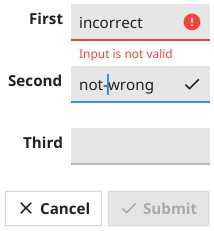
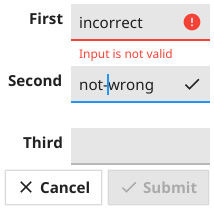
fix text alignment of label to match Entry

diff --git a/widget/form.go b/widget/form.go
@@ -47,10 +47,6 @@ type Form struct {
 	submitButton *Button
 }
 
-func (f *Form) createLabel(text string) *Label {
-	return NewLabelWithStyle(text, fyne.TextAlignTrailing, fyne.TextStyle{Bold: true})
-}
-
 // Append adds a new row to the form, using the text as a label next to the specified Widget
 func (f *Form) Append(text string, widget fyne.CanvasObject) {
 	item := &FormItem{Text: text, Widget: widget}
@@ -84,6 +80,14 @@ func (f *Form) Refresh() {
 	f.updateLabels()
 	f.BaseWidget.Refresh()
 	canvas.Refresh(f.super()) // refresh ourselves for BG color - the above updates the content
+}
+
+func (f *Form) createLabel(text string) *tallerLabel {
+	l := &tallerLabel{}
+	l.Alignment = fyne.TextAlignTrailing
+	l.Text = text
+	l.TextStyle = fyne.TextStyle{Bold: true}
+	return l
 }
 
 func (f *Form) updateButtons() {
@@ -134,8 +138,13 @@ func (f *Form) checkValidation(err error) {
 
 func (f *Form) setUpHints(item *FormItem) fyne.CanvasObject {
 	_, ok := item.Widget.(fyne.Validatable)
-	if item.HintText == "" && !ok {
-		return item.Widget
+	if item.HintText == "" {
+		if !ok {
+			return item.Widget
+		}
+		if e, ok := item.Widget.(*Entry); ok && e.Validator == nil { // we don't have validation
+			return item.Widget
+		}
 	}
 
 	text := canvas.NewText(item.HintText, theme.PlaceHolderColor())
@@ -158,6 +167,9 @@ func (f *Form) setUpValidation(widget fyne.CanvasObject, i int) {
 }
 
 func (f *Form) updateHelperText(item *FormItem) {
+	if item.helperOutput == nil {
+		return // testing probably, either way not rendered yet
+	}
 	if item.validationError == nil {
 		item.helperOutput.Text = item.HintText
 		item.helperOutput.Color = theme.PlaceHolderColor()
@@ -170,7 +182,7 @@ func (f *Form) updateHelperText(item *FormItem) {
 
 func (f *Form) updateLabels() {
 	for i, item := range f.Items {
-		l := f.itemGrid.Objects[i*2].(*Label)
+		l := f.itemGrid.Objects[i*2].(*tallerLabel)
 		if l.Text == item.Text {
 			continue
 		}
@@ -210,4 +222,31 @@ func NewForm(items ...*FormItem) *Form {
 	form.ExtendBaseWidget(form)
 
 	return form
+}
+
+type tallerLabel struct {
+	Label
+}
+
+func (t *tallerLabel) CreateRenderer() fyne.WidgetRenderer {
+	return &tallerLabelRenderer{t.Label.CreateRenderer().(*textRenderer)}
+}
+
+type tallerLabelRenderer struct {
+	*textRenderer
+}
+
+func (t *tallerLabelRenderer) Layout(size fyne.Size) {
+	t.textRenderer.Layout(size.Subtract(fyne.NewSize(0, theme.Padding()*2)))
+
+	for _, text := range t.textRenderer.Objects() {
+		pos := text.Position()
+		pos.Y += theme.Padding()
+		text.Move(pos)
+	}
+}
+
+func (t *tallerLabelRenderer) MinSize() fyne.Size {
+	min := t.textRenderer.MinSize()
+	return min.Add(fyne.NewSize(0, theme.Padding()*2))
 }

diff --git a/widget/form_test.go b/widget/form_test.go
@@ -103,11 +103,11 @@ func TestForm_ChangeText(t *testing.T) {
 
 	renderer := test.WidgetRenderer(form)
 	c := renderer.Objects()[0].(*fyne.Container)
-	assert.Equal(t, "Test", c.Objects[0].(*Label).Text)
+	assert.Equal(t, "Test", c.Objects[0].(*tallerLabel).Text)
 
 	item.Text = "Changed"
 	form.Refresh()
-	assert.Equal(t, "Changed", c.Objects[0].(*Label).Text)
+	assert.Equal(t, "Changed", c.Objects[0].(*tallerLabel).Text)
 }
 
 func TestForm_ChangeTheme(t *testing.T) {

diff --git a/data/binding/queue.go b/data/binding/queue.go
@@ -1,6 +1,6 @@
 package binding
 
-var itemQueue = make(chan itemData, 1024)
+var itemQueue = make(chan itemData, 10000024)
 
 type itemData struct {
 	fn   func()
